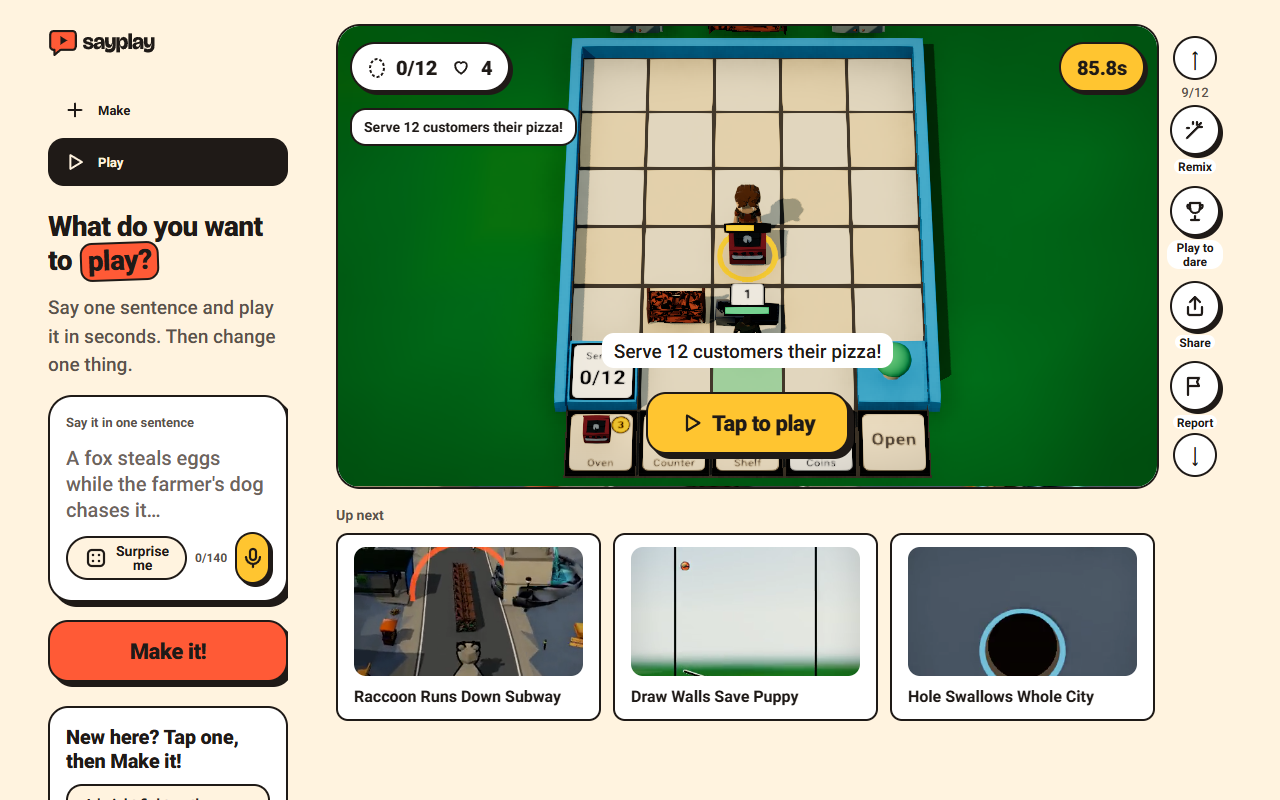
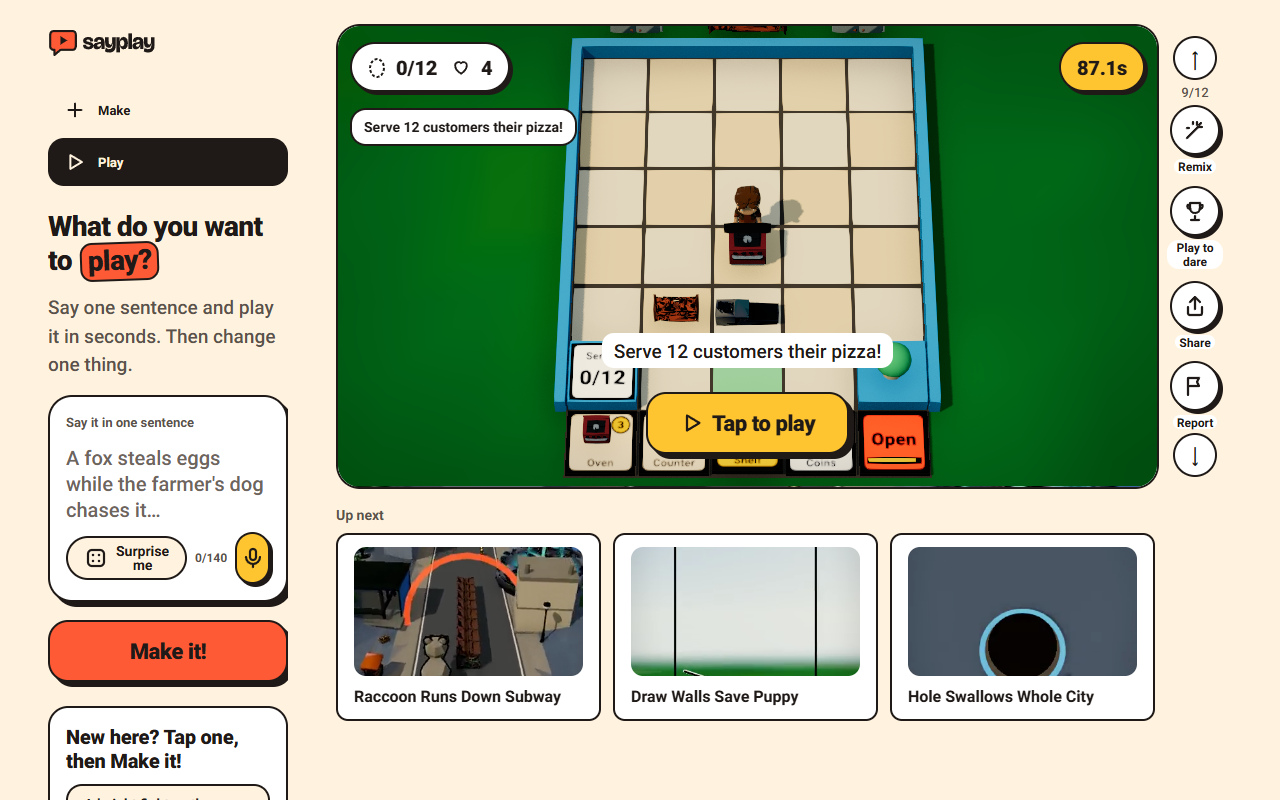
test(feed): clip oracle on phone and desktop
Desktop 1280x800: 70/70 checks move, active card 59.9 FPS on all 12 cards, 0 console errors. Phone 390x844: 33/34 move (live zombie-bats card mid-swipe, its visible bottom 60 % is static scene), 59.9 FPS, 0 errors. Up next thumbs take turns, so they count as moving when they move within 10 s. play-feed-phone.spec.ts is red identically on main c7037ab8 (routed R1).

diff --git a/evals/play/p71/feed/README.md b/evals/play/p71/feed/README.md
@@ -16,14 +16,27 @@ Před pojistkou (`clip-fps-x4-no-guard.json`) B spadlo na 4 FPS. Nahrává se je
 
 ## T5 – oracle na telefonu a desktopu (`oracle.mjs` → `oracle.json`, `oracle-*.png`)
 
-12 karet feedu kartu po kartě. Každá karta a náhled „Up next“ v okně: dva snímky po 500 ms. Totéž uprostřed swipe (reel o 40 % karty). FPS aktivní karty = medián rAF za 2 s.
+12 karet feedu kartu po kartě. Každá karta reelu v okně: dva snímky po 500 ms. Náhled „Up next“ (klipy v obraze se střídají): snímky každých 500 ms až 10 s, hýbe se = některý se liší od prvního. Totéž uprostřed swipe (reel o 40 % karty). FPS aktivní karty = medián rAF za 2 s.
+
+**Výsledek (5. 11., se střídáním klipů):**
 
 | | kontrol | hýbe se | FPS aktivní karty | chyby konzole |
 |---|---|---|---|---|
-| telefon 390×844 | 34 | 33 | 59,9 (všech 12 karet) | 1 (`avc1` u nahrávače – opraveno ve fd48c892, zatím neověřeno novým během) |
-| desktop 1280×800 | 70 | 68 | **30** (všech 12 karet) | 0 |
+| telefon 390×844 | 34 | 33 | 59,9 (všech 12 karet) | 0 |
+| desktop 1280×800 | 70 | 70 | 59,9 (všech 12 karet) | 0 |
 
-Nehybné: hra `e684987e` uprostřed swipe (vidět jen spodních 60 % karty, mimo swipe se hýbe) a jeden náhled „Up next“ na 4. kartě.
+Nehybná jediná kontrola: živá karta hry `e684987e` uprostřed swipe, kdy je vidět jen spodních 60 % karty. Sonda na téže kartě (6 snímků po 500 ms): celá karta se liší 5/5, spodních 60 % 1/5 – hýbe se horní část (časovač, netopýři), dole stojí scéna. Vlastnost hry, ne klipů.
+
+Chyba konzole `avc1` z prvního běhu po fd48c892 (`avc3`) zmizela.
+
+**e2e proti 3021 (chromium):** `play-feed-perf.spec.ts` zelený, `play-feed-reels.spec.ts` 16/16 (i nový test: ≥ 3 klipy přehrály ≥ 0,5 s za 12 s, nikdy dva viditelné naráz). `play-feed-phone.spec.ts` 2 červené – **stejně červený i na čistém `main` c7037ab8** (vlastní build, prázdný `PLAY_STORE_DIR`, port 3022): telefon „card 3 (swipe): no running preview of null within 45000 ms“, desktop „expected preview, received play“ po pohybu kolečkem. Obě po 2. kartě vestavěného poolu „Mini Golf Pirate Ship“; pool přeuspořádal P70C 4. 11., test počítá s arénou na 3. místě (naposledy upravený 30. 10.). Předexistující, ne P71B.
+
+### První běh (před střídáním)
+
+| | kontrol | hýbe se | FPS aktivní karty | chyby konzole |
+|---|---|---|---|---|
+| telefon 390×844 | 34 | 33 | 59,9 | 1 (`avc1` u nahrávače) |
+| desktop 1280×800 | 70 | 68 | **30** | 0 |
 
 **Desktop 30 FPS = klipy** (A/B, `ORACLE_NO_CLIPS=1`, 3 karty, 2 páry): s klipy 30, bez klipů 59,9. Rozpad (jedna stránka, videa pouštěná ručně):
 
@@ -40,7 +53,4 @@ Rohy bez zaoblení, `object-fit: fill` ani synchronní start videí na tom nic n
 
 **Inference:** stačí dvě současně viditelná hrající videa vedle živého WebGL plátna. Zda je to jen headless Chromium bez překryvných vrstev pro video, se odsud změřit nedá.
 
-## Zbývá (T5)
-
-- Viditelné klipy se střídají, hraje vždy jen jeden. Videa mimo obraz v dosahu (soused v reelu) hrají dál, nic nestojí. Pak znovu `oracle.mjs`: desktop ≥ 55 FPS a ověření, že chyba `avc1` zmizela.
-- `e2e/play-feed-perf.spec.ts` a `e2e/play-feed-phone.spec.ts` zatím neběžely.
+**Oprava (`CardClip.tsx`, `createClipTurns`):** z klipů v obraze hraje vždy jen jeden a po jedné smyčce předá tah dalšímu; soused v reelu mimo obraz hraje dokola. Strop: jeden viditelný klip naráz – zvednout po měření na skutečném desktopu s překryvnými vrstvami.
